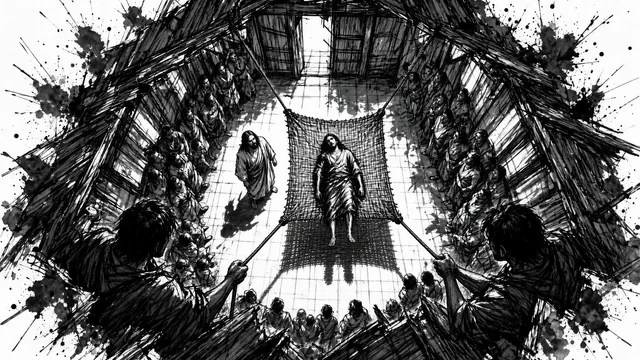
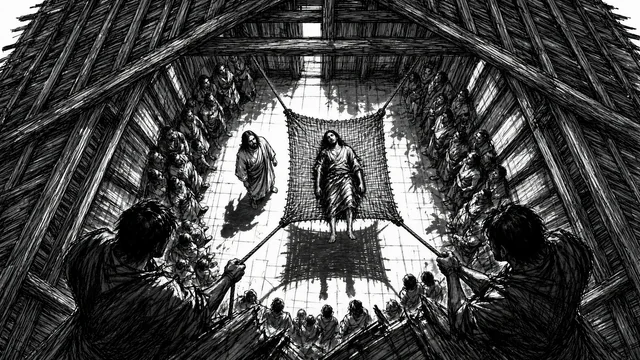
ART-203-01c: replace 203-01 roof-drop frames
Dave sent two new Grok Imagine frames. Keep sequence order, placement,
and stops [0, 0.3, 0.45] exact. Lesson JSON and saved-answer IDs unchanged.

diff --git a/discipleship/scripts/lesson-image-assets.js b/discipleship/scripts/lesson-image-assets.js
@@ -839,7 +839,7 @@
     "images/203-01-roof-drop-seq-1.jpg": {
         "width": 1792,
         "height": 1008,
[2 lines of base64/hex data omitted]
         "variants": [
             {
                 "src": "images/optimized/203-01-roof-drop-seq-1-640.webp",
@@ -854,7 +854,7 @@
     "images/203-01-roof-drop-seq-2.jpg": {
         "width": 1792,
         "height": 1008,
[2 lines of base64/hex data omitted]
         "variants": [
             {
                 "src": "images/optimized/203-01-roof-drop-seq-2-640.webp",

diff --git a/discipleship/project-management/TASKS.md b/discipleship/project-management/TASKS.md
@@ -2,6 +2,10 @@
 
 | Task | Status | Owner / date | Scope |
 |---|---|---|---|
+| ART-203-01c | REVIEW | Grok / cursor/art-203-01c-roof-drop-frames / 2026-11-20 | Dave sent two new Grok Imagine roof-drop frames. Replace seq-1 (mat still high) and seq-2 (mat landed beside Jesus) only. Sequence order, placement, and stops [0,0.3,0.45] unchanged. Lesson JSON and saved-answer IDs preserved. Stop at REVIEW. |
+
+| Task | Status | Owner / date | Scope |
+|---|---|---|---|
 | UI-COURSE-OPENER-LOGOS | DONE | Codex / 2026-11-20 | PR #347 merged59cce28; Firebase44738918915 succeeded. Three opener logos fill content width, proportions preserved. Foundation QA and46 local,46 preview,46 live browser checks pass. No other lesson values changed. |
 | ART-202-02-EARLY-FINISH | DONE | Codex / 2026-11-20 | PR #344 merged ebb5baa; Firebase44737217537 succeeded. Finish60 percent instead of72, entire image visible below header.80 local,80 preview and80 production browser checks pass. Artwork, copy, questions and normal scrolling preserved. |
 | WIDGET-203-10-REMOVE | DONE | Codex / 2026-11-20 | Dave requests removing the203-10 Greatest Commandment widget pending a better design. Remove embed and obsolete diagram navigation only; protect shared widget files, lesson copy and saved answers. PR #343 merged1ff1002; Firebase44736024654 succeeded.30 preview and30 live checks pass. |
@@ -336,7 +340,8 @@ Plan and standard: [reviews/2026-11-11-series-review.md](reviews/2026-11-11-seri
 | [x] | CONTENTS-203-BOXES | DONE | Claude / claude/203-box-diagrams / 2026-11-18 | Dave directed in session 2026-11-18 | Diagram row added to 203-02 (Prayer Card, the Their Life, Their Heart, My Part box), 203-03 (The Open Table box) and 203-04 (Time, Talents, Treasure box), which have no widget. Box blocks can now carry an anchor. Dave approved on the preview and asked to merge 2026-11-18; merged in PR #295. Evidence: logs/2026-11-18-CONTENTS-203-BOXES-claude.md. |
 | [x] | AAA-203-01 | DONE | Claude / claude/203-01-aaa / 2026-11-18 | Dave directed in session 2026-11-18 after the 203-01 to 203-05 review | 203-01 rewritten around personal ministry. Title Your Personal Ministry. The roof story leads; new grace turn (you were the one on the mat; carried people become carriers); Loved First, Then Sent section recaps 201 and 202 with the Greatest Commandment widget moved below the story and a new Love Moves Out circles picture (images/203-01-love-moves-out.png) under it; Personal Ministry Map widget removed from the lesson (file kept); tree and orchard cut to one sentence; new A Life, Not a Project section with the BLESS Rhythms box. All seven question IDs and wording kept. Contents Study now Loved First, Then Sent. Story art still pending (ART-203-01). Dave approved on the preview and asked to merge 2026-11-18; merged in PR #299. Evidence: logs/2026-11-18-AAA-203-01-claude.md. |
 | [ ] | ART-203-01 | REVIEW | Grok / cursor/art-203-01-roof-drop / 2026-11-19 | Dave approved three Grok Imagine frames | Add a three-frame roof-drop scroll sequence before Four Friends and a Roof (203-01-roof-drop-seq-1.jpg .. 3.jpg). House-standard timing adapted to three frames: 0.08 holds by listing seq-1 and seq-2 twice, last unique frame once, stops [0, 0.08, 0.16, 0.24, 0.8]. Non-image lesson values/IDs unchanged. Foundation QA/export 212/storage 73/assets 150/images 1571/iframe 32 and local browser 89 pass, exit 0. One PR; stop at REVIEW. Dave's personal art approval remains pending. Superseded on the image block by ART-203-01b. Evidence: logs/2026-11-18-ART-203-01-grok.md. |
-| [x] | ART-203-01b | DONE | Grok + Codex integration / PR #322 / 2026-11-19 | Dave approved two frames and requested merge of earlier timing | Two-frame roof-drop sequence [seq-1,seq-1,seq-2], stops [0,0.26,0.64]. Same0.38 dissolve duration, finishing20 percent sooner with entire landing image visible below header. Approved art exact; current Great Commission lesson and all active/retired answers preserved. Core QA and80 preview plus80 production browser checks pass. Merged2600793; Firebase44660866685 succeeded. Evidence: logs/2026-11-19-ART-203-01b-TIMING-codex.md. |
+| [x] | ART-203-01b | DONE | Grok + Codex integration / PR #322 / 2026-11-19 | Dave approved two frames and requested merge of earlier timing | Two-frame roof-drop sequence [seq-1,seq-1,seq-2], stops [0,0.26,0.64]. Same0.38 dissolve duration, finishing20 percent sooner with entire landing image visible below header. Approved art exact; current Great Commission lesson and all active/retired answers preserved. Core QA and80 preview plus80 production browser checks pass. Merged2600793; Firebase44660866685 succeeded. Live timing now [0,0.3,0.45] via ART-203-01b-30-45. Artwork superseded by ART-203-01c. Evidence: logs/2026-11-19-ART-203-01b-TIMING-codex.md. |
+| [ ] | ART-203-01c | REVIEW | Grok / cursor/art-203-01c-roof-drop-frames / 2026-11-20 | Dave sent two new Grok Imagine frames | Replace 203-01-roof-drop-seq-1.jpg (mat still high) and seq-2.jpg (mat landed beside Jesus). Keep sequence [seq-1,seq-1,seq-2], placement, and stops [0,0.3,0.45] exact. No other lesson JSON, alt, touchNext, or saved-answer ID changes. Foundation QA/export 212/storage 73/assets 143/images 1593/iframe 32 and local browser 80 pass, exit 0. One PR; stop at REVIEW. Dave's personal art approval remains pending. Evidence: logs/2026-11-20-ART-203-01c-grok.md. |
 | [x] | CLEANUP-STALE-LABELS | DONE | Claude / claude/cleanup-stale-labels / 2026-11-18 | Dave asked in session 2026-11-18 for simple cleanup fixes and to be told about each | Course-plan subtitles shown in the lesson menus updated where they named removed or replaced tools: 202-01 (was Cross the Road), 202-05 (was The Valley Road), 202-07 (was Stewardship Flip), 203-01 (was a working note). 203-05, 203-09 and 203-10 no longer mention the removed Personal Ministry Map widget. Reported to Dave, not changed: four lesson pages show the course-plan title instead of the lesson file title (201-06, 202-02, 202-04, 202-05). Dave asked to merge 2026-11-18; merged in PR #307. Evidence: logs/2026-11-18-CLEANUP-STALE-LABELS-claude.md. |
 | [x] | TITLE-MATCH-4 | DONE | Claude / claude/title-matches / 2026-11-20 | Dave chose 2026-11-20 (title options) | Course plan and credits titles now match the lesson files: 201-06 The Biblical Storyline (was Biblical Storyline), 202-02 Loving Your Family at Home (was ... - Your First Neighbors), 202-04 Discovering Your Gifts (was ... - APEST - Equip the saints for the work of ministry), 202-05 Suffering and Trials (was Suffering). Lesson files unchanged. l202_02_sequence check accepts either copy of the repeated seq-3 frame at the 0.48 boundary. Dave asked to merge 2026-11-20; merged in PR #336. Evidence: logs/2026-11-20-TITLE-MATCH-4-claude.md. |
 | [x] | CLEANUP-UNUSED-ABRAM-ART | DONE | Claude / claude/remove-unused-abram-art / 2026-11-18 | Dave asked to remove it in session 2026-11-18 | Removes the unused 202.08-abram-covenant B&W and color pair (sleeping Abram, Genesis 15), its four WebP copies, its manifest entries and its story-image.md row. No lesson, check or widget referenced it; dated research notes and logs keep their history. Dave asked to merge 2026-11-18; merged in PR #315. |

diff --git a/discipleship/project-management/logs/2026-11-20-ART-203-01c-grok.md b/discipleship/project-management/logs/2026-11-20-ART-203-01c-grok.md
@@ -1,0 +1,63 @@
+# ART-203-01c: 203-01 roof-drop frame replacement
+
+Date: 2026-11-20. Owner: Grok. Branch: `cursor/art-203-01c-roof-drop-frames`. Status: REVIEW. Base commit: `4f0097c`.
+
+## Why
+
+Dave sent two new Grok Imagine frames for the 203-01 roof-drop image sequence (paralytic lowered through the roof to Jesus). This packet replaces the current originals only. Sequence order, placement, and stops stay exactly as they are on main. Artwork was copied as-is; only the image optimizer made delivery WebP copies.
+
+## What changed
+
+1. **Originals (`images/203-01-roof-drop-seq-1.jpg` and `-2.jpg`)**: 1792x1008 JPEG, byte-identical to the attached uploads. SHA-256:
[2 lines of base64/hex data omitted]
+2. **Lesson JSON (`data/203-01.json`)**: unchanged. Sequence stays `[seq-1, seq-1, seq-2]`, stops stay `[0, 0.3, 0.45]`, `touchNext: true`, `anchor: "story"`. Alt text stays "Looking down through a hole in the roof as friends lower a paralyzed man on a mat, first high above the floor, then settling beside Jesus". Saved-answer IDs stay `203-01-one`, `203-01-helped`, `203-01-4`, `203-01-key`, `203-01-step`, `203-01-prayer`. Retired IDs stay `203-01-1`, `203-01-2`, `203-01-6`, `203-01-hand`.
+3. **Optimizer (`node scripts/build_lesson_images.js`)**: ran after `npm ci`. Exit 0. Cached delivery copies for other art were left unchanged. `scripts/lesson-image-assets.js` was regenerated by the build script, not edited by hand. New copies:
+   - `images/optimized/203-01-roof-drop-seq-1-640.webp` (95560 bytes)
+   - `images/optimized/203-01-roof-drop-seq-1-1280.webp` (347902 bytes; original JPG 1135156)
+   - `images/optimized/203-01-roof-drop-seq-2-640.webp` (90110 bytes)
+   - `images/optimized/203-01-roof-drop-seq-2-1280.webp` (328974 bytes; original JPG 1101571)
+4. **Inventory / browser check / lesson text**: not changed. `story-image.md` already records the live 3-stop sequence and `[0, 0.3, 0.45]`.
+5. **Board**: ART-203-01c in `TASKS.md` is REVIEW, owner Grok / `cursor/art-203-01c-roof-drop-frames`. ART-203-01b notes that the live artwork is superseded by this packet; live timing remains `[0, 0.3, 0.45]`.
+
+Login, Firebase config, workflows, index.html, reader/export code, widgets, and sign-in code were not touched.
+
+## Checks (from `discipleship/`)
+
+Local server: `python3 -m http.server 8765 --bind 127.0.0.1`. Playwright used installed Chrome (`GT_BROWSER_CHANNEL` default chrome). Synthetic data only. No credentials printed. Each command used `set -o pipefail` and a named `_EXIT` line.
+
+- `npm ci`: NPM_CI_EXIT:0
+- `node scripts/build_lesson_images.js`: BUILD_EXIT:0
+- `bash scripts/qa_foundation.sh`: QA_FOUNDATION_EXIT:0. Includes 415 bundled-John checks, 143 asset references, 32 widget iframe checks, 212 export checks, 1593 lesson image checks.
+- `node scripts/test_lesson_export.js`: TEST_LESSON_EXPORT_EXIT:0 (`212 check(s) passed.`)
+- `node scripts/test_answer_storage.js`: TEST_ANSWER_STORAGE_EXIT:0 (`73 check(s) passed.`)
+- `node scripts/check_lesson_assets.js`: CHECK_LESSON_ASSETS_EXIT:0 (`PASS: 143 src/image/imageBw/imageColor/imageSequence references resolve to files.`)
+- `node scripts/test_lesson_assets.js`: TEST_LESSON_ASSETS_EXIT:0 (`8 asset check tests passed.`)
+- `node scripts/test_widget_iframe.js`: TEST_WIDGET_IFRAME_EXIT:0 (`32 widget iframe checks passed.`)
+- `node scripts/test_lesson_images.js`: TEST_LESSON_IMAGES_EXIT:0 (`1593 lesson image checks passed.`)
+- `node scripts/l203_01_story_image_browser_check.js`: L203_01_STORY_IMAGE_BROWSER_CHECK_EXIT:0. 80 passed at 375, 390, and 1280, plus reduced motion. Three entries load and stay stacked, they advance in order on scroll (390 samples: dominant 0, 0, 1, 1, 1, 1, 2), seq-1 still holds at 0.3, last dissolve opacities 0.331 at 0.35 and 0.669 at 0.4, last frame is opaque at stop 0.45 and exclusive by 0.5, reduced motion shows seq-2 without scrolling, `touchNext` joins the parable card, wrap height stays put (375: 188.4px, 390: 196.9px, 1280: 337.5px), the parable does not nest a second story image, all six question IDs render, no sideways scroll. Entire picture remains visible below the 49px header at 0.45.
+
+Not run: real iPhone/Safari. No merge and no deploy. Stop at REVIEW. Dave's personal art approval remains pending.
+
+## Handoff
+
+Changed files:
+- `discipleship/images/203-01-roof-drop-seq-1.jpg`
+- `discipleship/images/203-01-roof-drop-seq-2.jpg`
+- `discipleship/images/optimized/203-01-roof-drop-seq-1-640.webp`
+- `discipleship/images/optimized/203-01-roof-drop-seq-1-1280.webp`
+- `discipleship/images/optimized/203-01-roof-drop-seq-2-640.webp`
+- `discipleship/images/optimized/203-01-roof-drop-seq-2-1280.webp`
+- `discipleship/scripts/lesson-image-assets.js` (generated)
+- `discipleship/project-management/TASKS.md`
+- `discipleship/project-management/HANDOFF.md`
+- `discipleship/project-management/TEAM-BOARD.md`
+- `discipleship/project-management/logs/2026-11-20-ART-203-01c-grok.md`
+
+Remaining work / next command: independent review, then Dave's personal art approval. Do not merge or deploy by hand.
+
+Blocker and unblock action, if any: none.
+
+Commit / PR / GitHub sync state: branch `cursor/art-203-01c-roof-drop-frames`. PR follows this log. Stop at REVIEW.
+
+Pastoral approval evidence, if applicable: Dave sent the two replacement frames. No new lesson wording approval is implied.

diff --git a/discipleship/project-management/HANDOFF.md b/discipleship/project-management/HANDOFF.md
@@ -1,5 +1,7 @@
 # Resume here
 
+ART-203-01c REVIEW, November 20: Dave sent two new Grok Imagine frames for the 203-01 roof-drop sequence. Replaced seq-1 (mat still high) and seq-2 (mat landed beside Jesus) only. Sequence order, placement, and stops [0,0.3,0.45] unchanged. Lesson JSON, alt, touchNext, and saved-answer IDs unchanged. Foundation QA and 80 local story-image checks pass. Stop at REVIEW. Evidence: [task log](logs/2026-11-20-ART-203-01c-grok.md).
+
 UI-COURSE-OPENER-LOGOS DONE: PR #347 merged59cce28 and Firebase44738918915 succeeded. The201-01,202-01 and203-01 logos fill content width.46 local,46 preview and46 live phone/laptop checks pass. All other lesson values/artwork preserved. See logs/2026-11-20-UI-COURSE-OPENER-LOGOS-codex.md.
 
 ART-202-06c REVIEW, November 20: Image now sits before A Face That Shone with `touchNext` and the story jump on the picture. Sequence `[seq-1, seq-1, seq-2]`, stops `[0, 0.34, 0.91]` (dissolve starts 20 percent sooner and lasts 50 percent longer). Seq-1 is the yellow-glow frame; seq-2 is veiled. Non-image lesson values and saved-answer IDs unchanged. Merged current main into this branch to clear conflicts; stop at REVIEW pending Dave's merge of PR #332. Evidence: [task log](logs/2026-11-19-ART-202-06c-grok.md).

diff --git a/discipleship/project-management/TEAM-BOARD.md b/discipleship/project-management/TEAM-BOARD.md
@@ -1,5 +1,7 @@
 # Growing Together Team Board
 
+ART-203-01c REVIEW, November 20: two new Grok Imagine roof-drop frames replace seq-1 and seq-2. Stops stay [0,0.3,0.45]. Lesson copy and saved-answer IDs unchanged. Stop at REVIEW. [Evidence](logs/2026-11-20-ART-203-01c-grok.md).
+
 UI-COURSE-OPENER-LOGOS DONE: PR #347 merged59cce28 and Firebase44738918915 succeeded. The201-01,202-01 and203-01 logos fill content width.46 local,46 preview and46 live phone/laptop checks pass. All other lesson values/artwork preserved. See logs/2026-11-20-UI-COURSE-OPENER-LOGOS-codex.md.
 
 ART-202-02-EARLY-FINISH DONE: PR #344 merged ebb5baa, production verified after Firebase44737217537. Sequence finishes at60 percent, entire picture visible below header.80 live browser checks pass. Timing only, normal scrolling/artwork/copy/answers preserved. [Evidence](logs/2026-11-20-ART-202-02-EARLY-FINISH-codex.md).
